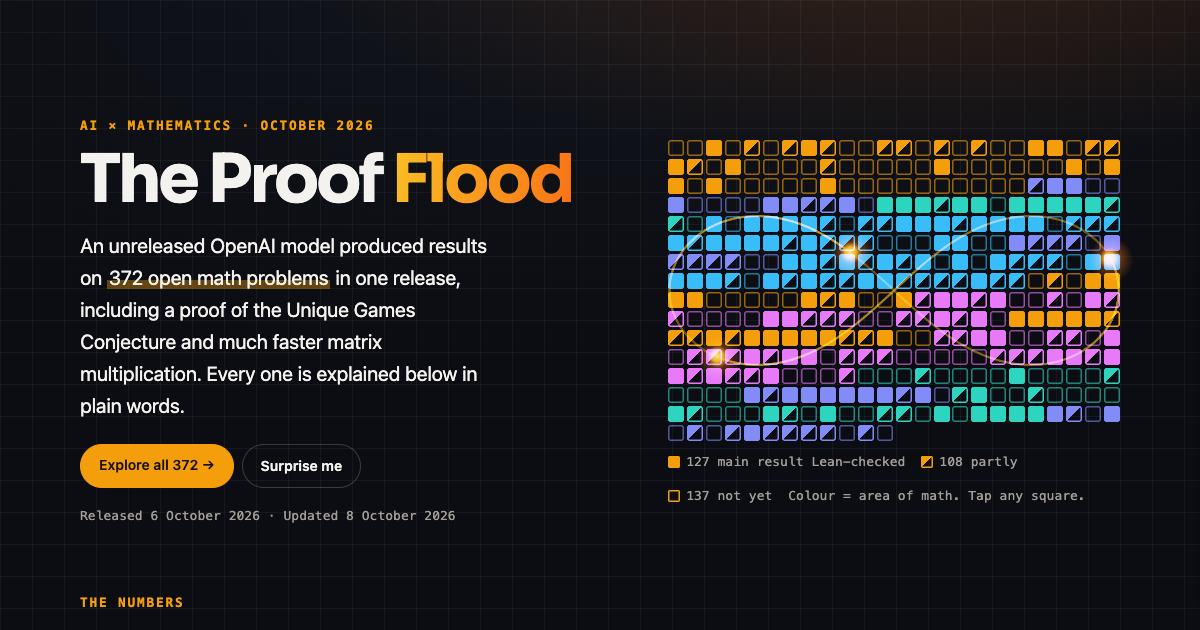
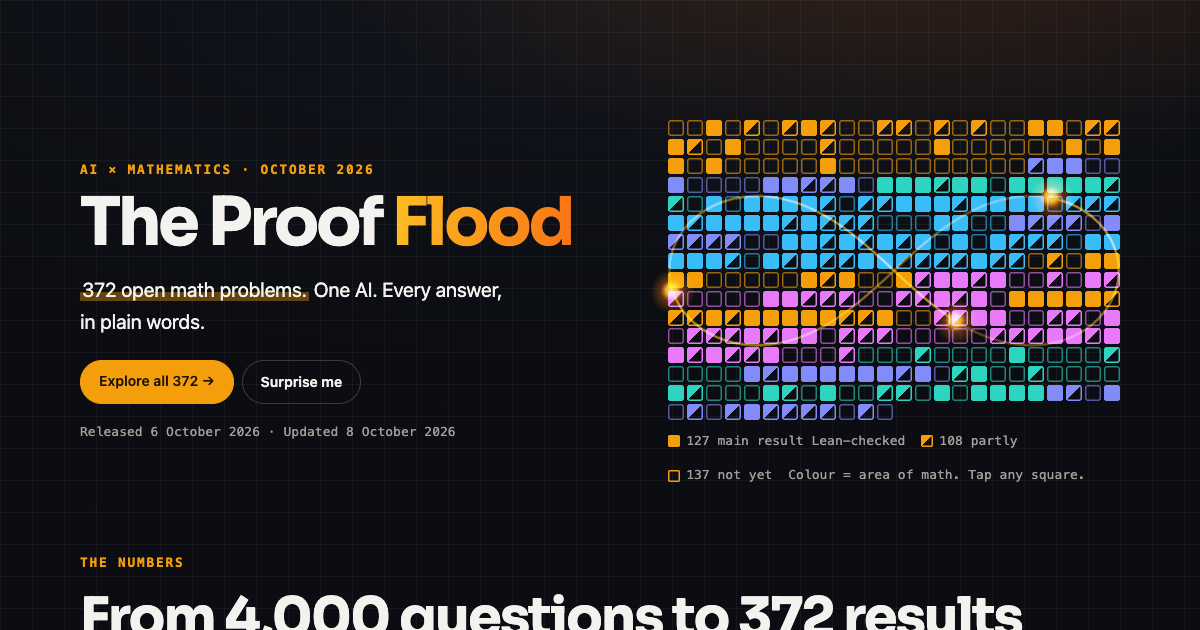
Proof Flood hero: one line instead of five

diff --git a/articles/proof-flood/index.html b/articles/proof-flood/index.html
@@ -342,7 +342,7 @@ abbr.g{text-decoration:underline dotted var(--accent);text-underline-offset:3px;
   <div>
     <div class="eyebrow" style="margin-bottom:14px">AI × mathematics · October 2026</div>
     <h1>The Proof <span class="grad">Flood</span></h1>
-    <p class="sub">An unreleased OpenAI model produced results on <mark>372 open math problems</mark> in one release, including a proof of the Unique Games Conjecture and much faster matrix multiplication. Every one is explained below in plain words.</p>
+    <p class="sub"><mark>372 open math problems.</mark> One AI. Every answer, in plain words.</p>
     <div class="btns" style="margin-top:22px"><a class="btn primary" href="#atlas" style="text-decoration:none">Explore all 372 →</a><button class="btn ghost" id="surprise">Surprise me</button></div>
     <p class="when">Released 6 October 2026 · Updated 8 October 2026</p>
   </div>
